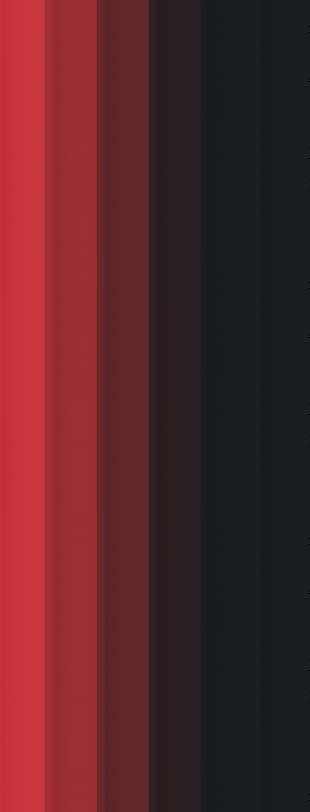
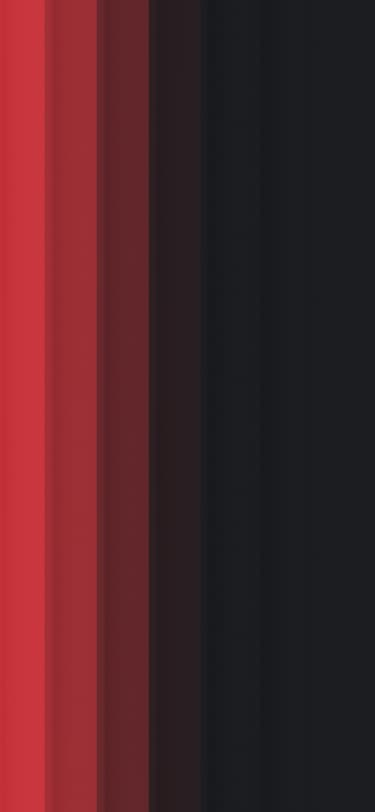
next update

Changed region(s): [[0.3774, 0.0, 0.4935, 1.0], [0.2323, 0.0, 0.3194, 1.0], [0.1161, 0.0, 0.1452, 1.0]]

diff --git a/src/css/hero.css b/src/css/hero.css
@@ -1,36 +1,36 @@
 .gradient {
-    position: absolute;
-    top: 0;
-    left: 0;
+  position: absolute;
+  top: 0;
+  left: 0;
 
-    height: 812px;
-    min-width: 100%;
+  height: 812px;
+  min-width: 100%;
 
-    background-color: var(--color-dark);
-    background-position: center center;
+  background-color: var(--color-dark);
+  background-position: center center;
 
-    background: linear-gradient(to left,
-            rgba(28, 29, 32, 1) 49.68%,
-            rgba(105, 41, 45, 1) 67.73%,
-            rgba(237, 59, 68, 1) 100%);
+  background: linear-gradient(to left,
+      rgba(28, 29, 32, 1) 49.68%,
+      rgba(105, 41, 45, 1) 67.73%,
+      rgba(237, 59, 68, 1) 100%);
 
-    background-size: cover;
-    background-repeat: no-repeat;
-    background-position: 50% 50%;
-    background-image: -webkit-image-set('../img/header/glass-effect-mobile@1x.jpg');
-    background-image: image-set('../img/header/glass-effect-mobile@1x.jpg');
+  background-size: cover;
+  background-repeat: no-repeat;
+  background-position: 50% 50%;
+  background-image: url('../img/header/glass-effect-mobile@1x.jpg');
+  /* background-image: image-set('../img/header/glass-effect-mobile@1x.jpg'); */
 
-    z-index: -10000;
-    /* backdrop-filter: blur(100px); */
+  z-index: -10000;
+  /* backdrop-filter: blur(100px); */
 }
 
 @media screen and (min-resolution: 192dpi) and (max-width: 767px),
 screen and (min-resolution: 2dppx) and (max-width: 767px),
 screen and (min-devace-pixel-ratio: 2) and (max-width: 767px) {
-    .gradient {
-        background-image: -webkit-image-set('../img/header/glass-effect-mobile@2x.jpg');
-        background-image: image-set('../img/header/glass-effect-mobile@2x.jpg');
-    }
+  .gradient {
+    background-image: url('../img/header/glass-effect-mobile@2x.jpg');
+    /* background-image: image-set('../img/header/glass-effect-mobile@2x.jpg'); */
+  }
 }
 
 
@@ -38,87 +38,87 @@ screen and (min-devace-pixel-ratio: 2) and (max-width: 767px) {
 
 
 .hero-section {
-    height: 812px;
-    padding-top: 281px;
-    padding-bottom: 32px;
+  height: 812px;
+  padding-top: 281px;
+  padding-bottom: 32px;
 }
 
 
 .hero-h1 {
-    max-width: 343px;
-    text-align: start;
-    font-size: 50px;
-    line-height: 100%;
-    font-weight: 500;
-    font-style: normal;
-    letter-spacing: -0.03em;
-    text-transform: uppercase;
-    color: var(--border-hover);
-    margin-bottom: 212px;
+  max-width: 343px;
+  text-align: start;
+  font-size: 50px;
+  line-height: 100%;
+  font-weight: 500;
+  font-style: normal;
+  letter-spacing: -0.03em;
+  text-transform: uppercase;
+  color: var(--border-hover);
+  margin-bottom: 212px;
 }
 
 .menu-link-portfolio {
-    display: flex;
-    justify-content: flex-end;
-    flex-wrap: wrap;
-    gap: 4px;
+  display: flex;
+  justify-content: flex-end;
+  flex-wrap: wrap;
+  gap: 4px;
 }
 
 /* .menu-link-portfolio:hover {} */
 
 .item-link-portfolio {
 
-    font-size: 14px;
-    letter-spacing: -0.02em;
-    color: var(--color-white);
+  font-size: 14px;
+  letter-spacing: -0.02em;
+  color: var(--color-white);
 }
 
 .li-link-portfolio {
-    display: flex;
-    justify-content: center;
-    align-items: center;
-    border: 1px solid var(--color-transp-04-text);
-    border-radius: 60px;
-    transition: border-color 250ms ease-in-out;
-    width: 37px;
-    height: 37px;
+  display: flex;
+  justify-content: center;
+  align-items: center;
+  border: 1px solid var(--color-transp-04-text);
+  border-radius: 60px;
+  transition: border-color 250ms ease-in-out;
+  width: 37px;
+  height: 37px;
 }
 
 .li-email-portfolio {
-    display: flex;
-    justify-content: center;
-    align-items: center;
-    border: 1px solid var(--color-transp-04-text);
-    border-radius: 60px;
-    transition: border-color 250ms ease-in-out;
-    height: 37px;
-    padding: 10px 12px;
+  display: flex;
+  justify-content: center;
+  align-items: center;
+  border: 1px solid var(--color-transp-04-text);
+  border-radius: 60px;
+  transition: border-color 250ms ease-in-out;
+  height: 37px;
+  padding: 10px 12px;
 }
 
 .li-link-portfolio:hover,
 .li-email-portfolio:hover {
-    border-color: var(--border-hover);
+  border-color: var(--border-hover);
 }
 
 .menu-link-portfolio li:last-child .item-link-portfolio {
-    border-radius: 60px;
-    width: inherit;
+  border-radius: 60px;
+  width: inherit;
 
 }
 
 
 
 @media screen and (max-width: 359px) {
-    .hero-h1 {
-        margin-bottom: 120px;
-    }
+  .hero-h1 {
+    margin-bottom: 120px;
+  }
 
 }
 
 @media screen and (min-width:359px) and (max-width: 374px) {
-    .hero-h1 {
-        margin-bottom: 170px;
-    }
+  .hero-h1 {
+    margin-bottom: 170px;
+  }
 
 }
 
@@ -127,55 +127,55 @@ screen and (min-devace-pixel-ratio: 2) and (max-width: 767px) {
 
 
 @media screen and (min-width: 768px) {
+  .gradient {
+    height: 1024px;
+
+    background-image: url('../img/header/glass-effect-tablet@1x.jpg');
+    /* background-image: image-set('../img/header/glass-effect-tablet@1x.jpg'); */
+
+  }
+
+  @media screen and (min-resolution: 192dpi) and (max-width: 1439px),
+  screen and (min-resolution: 2dppx) and (max-width: 1439px),
+  screen and (min-devace-pixel-ratio: 2) and (max-width: 1439px) {
     .gradient {
-        height: 1024px;
-
-        background-image: -webkit-image-set('../img/header/glass-effect-tablet@1x.jpg');
-        background-image: image-set('../img/header/glass-effect-tablet@1x.jpg');
-
+      background-image: url('../img/header/glass-effect-tablet@2x.jpg');
+      /* background-image: image-set('../img/header/glass-effect-tablet@2x.jpg'); */
     }
+  }
 
-    @media screen and (min-resolution: 192dpi) and (max-width: 1439px),
-    screen and (min-resolution: 2dppx) and (max-width: 1439px),
-    screen and (min-devace-pixel-ratio: 2) and (max-width: 1439px) {
-        .gradient {
-            background-image: -webkit-image-set('../img/header/glass-effect-tablet@2x.jpg');
-            background-image: image-set('../img/header/glass-effect-tablet@2x.jpg');
-        }
-    }
-
-    .hero-section {
-        height: 1024px;
-        width: 100%;
-        padding-top: 300px;
-        padding-bottom: 31px;
-    }
+  .hero-section {
+    height: 1024px;
+    width: 100%;
+    padding-top: 300px;
+    padding-bottom: 31px;
+  }
 
 
-    .hero-h1 {
-        max-width: 632px;
-        font-size: 90px;
-        font-style: normal;
-        margin-bottom: 187px;
-    }
+  .hero-h1 {
+    max-width: 632px;
+    font-size: 90px;
+    font-style: normal;
+    margin-bottom: 187px;
+  }
 
-    .menu-link-portfolio {
-        gap: 8px;
-    }
+  .menu-link-portfolio {
+    gap: 8px;
+  }
 
-    .item-link-portfolio {
-        font-size: 16px;
-    }
+  .item-link-portfolio {
+    font-size: 16px;
+  }
 
-    .li-link-portfolio {
-        width: 55px;
-        height: 55px;
-    }
+  .li-link-portfolio {
+    width: 55px;
+    height: 55px;
+  }
 
-    .li-email-portfolio {
-        height: 55px;
-        padding: 18px 24px;
-    }
+  .li-email-portfolio {
+    height: 55px;
+    padding: 18px 24px;
+  }
 
 }
 
@@ -183,50 +183,50 @@ screen and (min-devace-pixel-ratio: 2) and (max-width: 767px) {
 /* ================================= DESKTOP ================================= */
 
 @media screen and (min-width: 1440px) {
+  .gradient {
+    height: 900px;
+
+    background-image: url('../img/header/glass-effect-desktop@1x.jpg');
+    /* background-image: image-set('../img/header/glass-effect-desktop@1x.jpg'); */
+
+  }
+
+  @media screen and (min-resolution: 192dpi) and (min-width: 1440px),
+  screen and (min-resolution: 2dppx) and (min-width: 1440px),
+  screen and (min-devace-pixel-ratio: 2) and (min-width: 1440px) {
     .gradient {
-        height: 900px;
-
-        background-image: -webkit-image-set('../img/header/glass-effect-desktop@1x.jpg');
-        background-image: image-set('../img/header/glass-effect-desktop@1x.jpg');
-
+      background-image: url('../img/header/glass-effect-desktop@2x.jpg');
+      /* background-image: image-set('../img/header/glass-effect-desktop@2x.jpg'); */
     }
+  }
 
-    @media screen and (min-resolution: 192dpi) and (min-width: 1440px),
-    screen and (min-resolution: 2dppx) and (min-width: 1440px),
-    screen and (min-devace-pixel-ratio: 2) and (min-width: 1440px) {
-        .gradient {
-            background-image: -webkit-image-set('../img/header/glass-effect-desktop@2x.jpg');
-            background-image: image-set('../img/header/glass-effect-desktop@2x.jpg');
-        }
-    }
-
-    .hero-section {
-        height: 900px;
-        padding-top: 300px;
-        padding-bottom: 31px;
-    }
+  .hero-section {
+    height: 900px;
+    padding-top: 300px;
+    padding-bottom: 31px;
+  }
 
 
-    .hero-h1 {
-        max-width: 1084px;
-        margin-bottom: 244px;
-    }
+  .hero-h1 {
+    max-width: 1084px;
+    margin-bottom: 244px;
+  }
 
-    .menu-link-portfolio {
-        gap: 8px;
-    }
+  .menu-link-portfolio {
+    gap: 8px;
+  }
 
-    .item-link-portfolio {
-        font-size: 16px;
-    }
+  .item-link-portfolio {
+    font-size: 16px;
+  }
 
-    .li-link-portfolio {
-        width: 55px;
-        height: 55px;
-    }
+  .li-link-portfolio {
+    width: 55px;
+    height: 55px;
+  }
 
-    .li-email-portfolio {
-        height: 55px;
-        padding: 18px 24px;
-    }
+  .li-email-portfolio {
+    height: 55px;
+    padding: 18px 24px;
+  }
 }

diff --git a/src/css/mobile-menu.css b/src/css/mobile-menu.css
@@ -42,8 +42,8 @@
         background-size: cover;
         background-repeat: no-repeat;
         background-position: 50% 50%;
-        background-image: -webkit-image-set('../img/header/glass-effect-modal@1x.jpg');
-        background-image: image-set('../img/header/glass-effect-modal@1x.jpg');
+        background-image: url('../img/header/glass-effect-modal@1x.jpg');
+        /* background-image: image-set('../img/header/glass-effect-modal@1x.jpg'); */
 
         z-index: -1000;
         /* backdrop-filter: blur(100px); */
@@ -53,8 +53,8 @@
     screen and (min-resolution: 2dppx) and (max-width: 767px),
     screen and (min-devace-pixel-ratio: 2) and (max-width: 767px) {
         .gradient-modal {
-            background-image: -webkit-image-set('../img/header/glass-effect-modal@2x.jpg');
-            background-image: image-set('../img/header/glass-effect-modal@2x.jpg');
+            background-image: url('../img/header/glass-effect-modal@2x.jpg');
+            /* background-image: image-set('../img/header/glass-effect-modal@2x.jpg'); */
         }
     }
 
